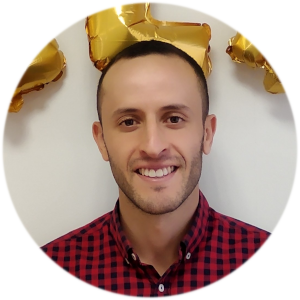
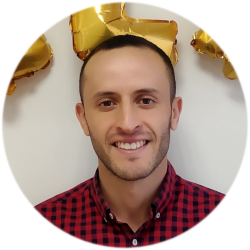
Ajout des photos des développeurs

diff --git a/src/main/resources/templates/about.html b/src/main/resources/templates/about.html
@@ -50,17 +50,31 @@
     </div>
     <div id="about-profiles">
         <div class="profile-block">
-            <img src="../static/images/about-photos/nabil.png" alt="Photo"/>
+            <img src="../static/images/about-photos/alex.png" alt="Photo"/>
             <div class="profile-content">
-                <h2>Nabila</h2>
-                <p>Né dans une grande fraterie, Nabila est une geek ! Né dans une grande fraterie, Nabila est une geek ! Né dans une grande fraterie, Nabila est une geek !</p>
+                <h3>Alex</h3>
+                <p>Lorem ipsum dolor sit amet, consectetur adipisicing elit. Ab aperiam at, consequatur dignissimos eveniet exercitationem illo incidunt iusto nisi nobis odit omnis perspiciatis placeat praesentium quia quidem tempore, temporibus, voluptates!</p>
+            </div>
+        </div>
+        <div class="profile-block">
+            <img src="../static/images/about-photos/jon.png" alt="Photo"/>
+            <div class="profile-content">
+                <h3>Jon</h3>
+                <p>Lorem ipsum dolor sit amet, consectetur adipisicing elit. Ad aut autem cum est fugit hic placeat sit sunt. Architecto assumenda autem debitis delectus deserunt dicta dolore, eos pariatur quam quibusdam.</p>
+            </div>
+        </div>
+        <div class="profile-block">
+            <img src="../static/images/about-photos/lea.png" alt="Photo"/>
+            <div class="profile-content">
+                <h3>Léa</h3>
+                <p>Lorem ipsum dolor sit amet, consectetur adipisicing elit. Accusantium assumenda aut, beatae culpa dolore fugit harum in laborum libero, nostrum optio pariatur perferendis quasi quo repudiandae similique suscipit tempora vero?</p>
             </div>
         </div>
         <div class="profile-block">
             <img src="../static/images/about-photos/nabil.png" alt="Photo"/>
             <div class="profile-content">
-                <h2>Jona</h2>
-                <p>Né dans une grande fraterie, Jona est une geek ! Né dans une grande fraterie, Nabila est une geek ! Né dans une grande fraterie, Nabila est une geek !</p>
+                <h3>Nabil</h3>
+                <p>Lorem ipsum dolor sit amet, consectetur adipisicing elit. Amet at cum, dicta ea excepturi incidunt laboriosam libero magni nesciunt nihil obcaecati omnis quae quis quos ullam vitae voluptate? Vero, voluptate.</p>
             </div>
         </div>
     </div>

diff --git a/src/main/resources/static/css/about.css b/src/main/resources/static/css/about.css
@@ -12,6 +12,10 @@
     align-items: center;
 }
 
+#about-text, #about-profiles {
+    padding: 0 30px;
+}
+
 #about-text h1 {
     margin-bottom: 20px;
 }
@@ -30,9 +34,15 @@
 
     .profile-block {
         flex-direction: row;
+        margin-bottom: 30px;
+    }
+
+    .profile-block img {
+        height: 100px;
     }
 
     .profile-content {
         align-items: flex-end;
+        margin-left: 15px;
     }
 }
